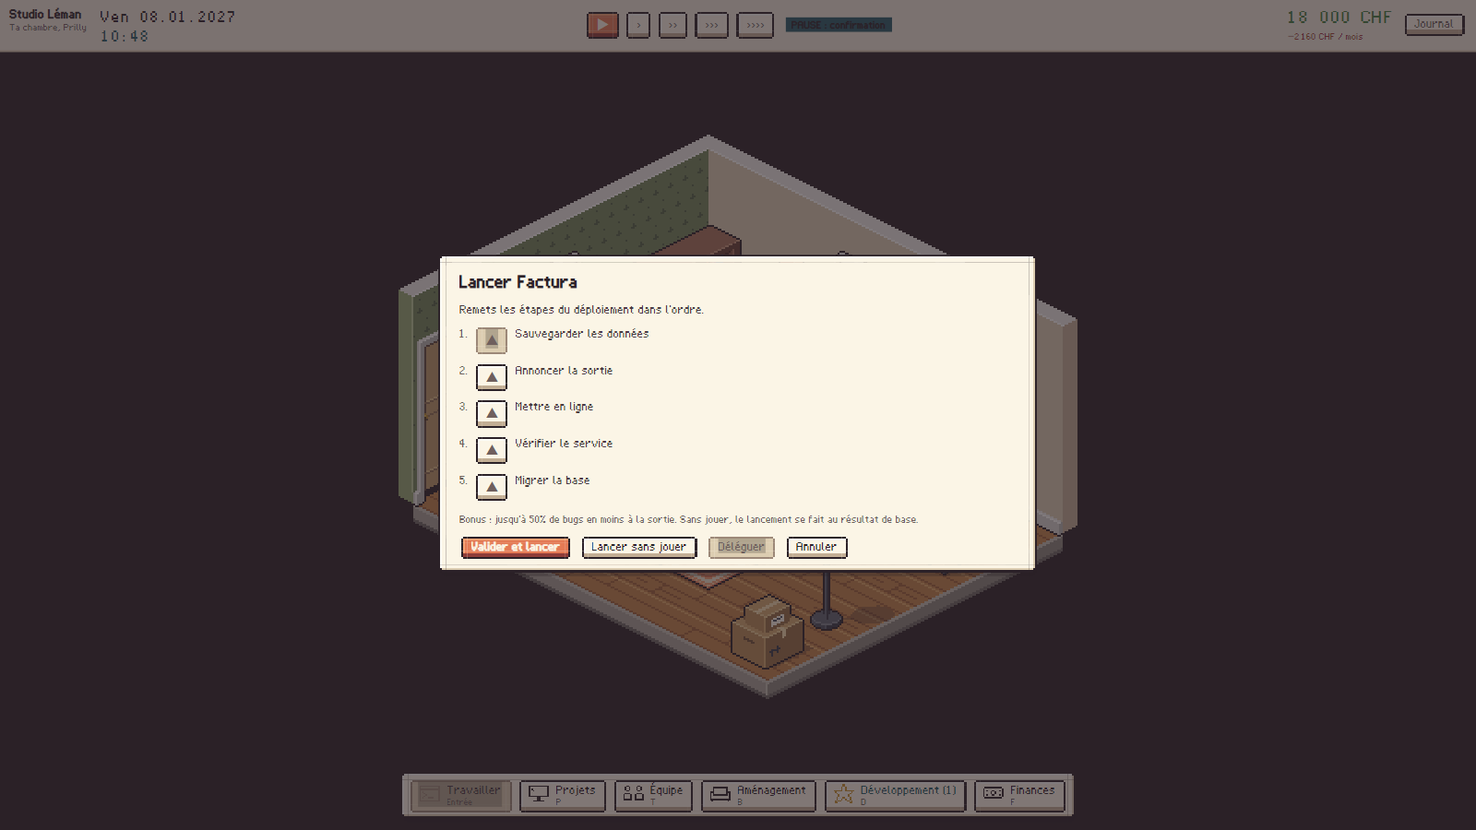
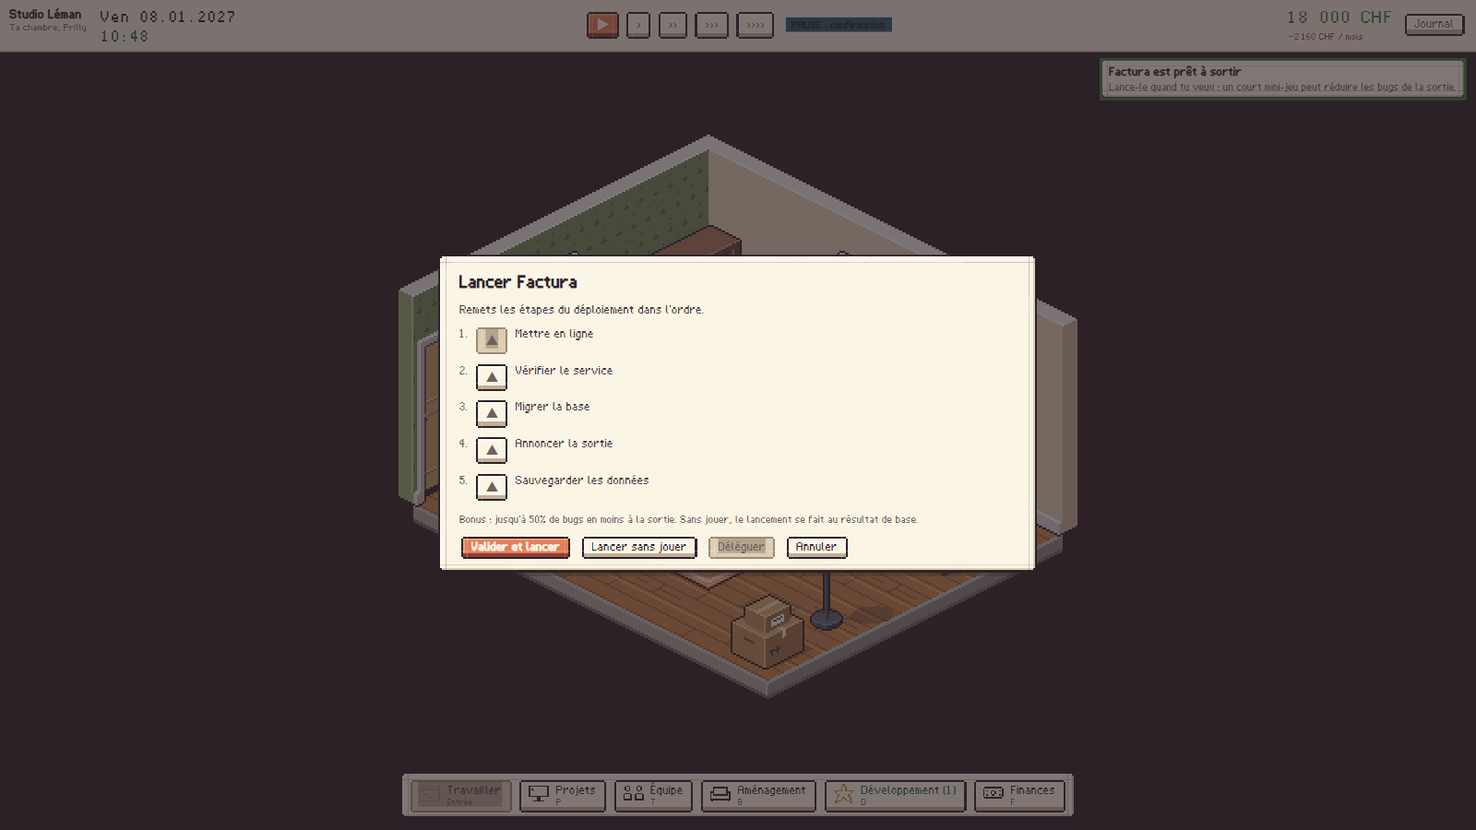
docs(V1 lot 3): confort, grosses actions, registre d'usage et captures du vrai jeu
- V1_ETAT : lot 3 fait (reste reporté : mini-jeux matériel/IA/quantique, moving_box), matrice à jour
- DESIGN_SIMULATION : confort du local (8 indicateurs plafonnés), grosses actions, nouveaux outils
- Registre : 59 validées (36 avant), 124 partielles, 403 non implémentées (tools/registry_lot3.py)
- Passation à jour (102 tests, objets muraux, ordre conseillé : lot 4)
- Captures refaites par le parcours --capture sous Windows 11

diff --git a/tools/registry_lot3.py b/tools/registry_lot3.py
@@ -1,0 +1,95 @@
+"""
+Met à jour docs/asset_usage.csv avec le mobilier de confort branché au lot 3 (voir docs/V1_ETAT.md).
+
+« validé » : un consommateur réel dans le jeu ET un test qui vérifie une conséquence (Tests/space/ComfortTest.cs).
+« partiel » : effet codé avec la même règle que des objets testés, mais sans test qui vise cet identifiant.
+
+    python tools/registry_lot3.py
+"""
+import csv
+import os
+
+ROOT = os.path.dirname(os.path.dirname(os.path.abspath(__file__)))
+REGISTRY = os.path.join(ROOT, "docs", "asset_usage.csv")
+
+CATALOG = "Core/space/Furniture.cs;Core/space/Layout.cs"
+WALL = "Core/space/Furniture.cs;Core/space/Layout.cs;Core/space/RealEstate.cs;UI/Iso/RoomRenderer.cs"
+CONSUMER = "Aménagement (achat, pose, sockets, murs), confort du local (Layout.Comfort), simulation"
+TEST = "Tests/space/ComfortTest.cs : "
+
+
+def row(indicator, state, test, files=CATALOG, unlock="dès le départ (catalogue)", consumer=CONSUMER):
+    return dict(consommateur=consumer, fichier_definition=files, deblocage=unlock,
+                indicateur_ou_interaction=indicator, etat=state, scenario_test=test)
+
+
+updates = {}
+
+validated = [
+    (["photo_abstract", "clock_wall"], "ambiance +0,5 / +0,25 ; pose au mur plein, jamais sur la porte ni une fenêtre", WALL,
+     "WallItemsHangOnPlainWallsBlindsOnWindowsNeverOnTheDoor"),
+    (["lamp_ceiling"], "ambiance +0,75 ; au plafond, aucune case au sol", CATALOG, "ACeilingLampTakesNoFloorSpace"),
+    (["locker", "toilet", "toilet_stall", "washbasin"], "confort de base (moral, 3 au plus) selon les personnes couvertes", CATALOG,
+     "StorageAndSanitariesGiveBaseComfortForThePeopleTheyCover"),
+    (["coffee_machine", "vending_drinks", "kitchen_sink", "kitchen_counter"], "énergie par pause, places limitées (15 au plus)", CATALOG,
+     "BreakServicesServeALimitedNumberOfPeople"),
+    (["sofa", "table_coffee"], "énergie par pause et moral de détente ; la table basse complète un coin assis", CATALOG,
+     "ACoffeeTableOnlyCompletesASeatingArea"),
+    (["partition_acoustic"], "production +2 % pour 4 personnes (4 % au plus)", CATALOG, "PartitionsHelpFocusUpToACapForThePeopleTheyCover"),
+    (["table_meeting_small", "chair_meeting", "notebook", "whiteboard_mobile"],
+     "coordination (personnes sans perte, 3 au plus ; petits supports 1 au plus)", CATALOG,
+     "MeetingTablesCountWithTheirChairsAndSmallNotesAreCapped"),
+    (["bookcase", "presentation_screen", "poster_schematic"], "efficacité des formations (40 % au plus)", WALL, "TrainingSupportsAreCapped"),
+    (["reception_desk"], "1 candidat de plus chaque semaine", CATALOG, "AReceptionDeskBringsOneMoreCandidateEachWeek"),
+]
+for ids, indicator, files, test in validated:
+    for i in ids:
+        updates[i] = row(indicator, "validé", TEST + test, files)
+updates["trophy_project"] = row("récompense du premier lancement (cartons), ambiance +0,5, sans revente", "validé",
+                                TEST + "TheFirstLaunchLeavesATrophyToPlace", "Core/space/Furniture.cs;Core/campaign/Campaign.Daily.cs",
+                                "jalon « Premier lancement »")
+
+partial = {
+    "plant_trailing": "ambiance +0,5 (sur un meuble)", "rug_large": "ambiance +1", "poster_project": "ambiance +0,5 (au mur)",
+    "window_blinds": "ambiance +0,25 (sur une fenêtre)", "display_case": "ambiance +1",
+    "figurine_robot": "moral du poste +0,5 (1 au plus)", "retro_message": "moral du poste +0,5 (1 au plus)",
+    "water_cooler": "pause +4, 10 personnes", "bottle": "pause +2, 1 personne", "vending_snacks": "pause +3, 15 personnes",
+    "fridge": "pause +3, 10 personnes", "microwave": "pause +3, 8 personnes (sur un plan de travail)", "snack_bowl": "pause +1,5, 3 personnes",
+    "armchair": "pause +2 pour 1 personne, détente +1",
+    "dresser": "rangement, 2 personnes", "nightstand": "rangement, 1 personne", "trash_bin": "propreté, 3 personnes",
+    "recycling_station": "propreté, 8 personnes", "coat_rack": "rangement, 4 personnes", "filing_cabinet": "rangement, 3 personnes",
+    "wardrobe_office": "rangement, 3 personnes", "shelf_metal": "rangement, 4 personnes",
+    "sideboard_low": "rangement, 2 personnes ; socket café / micro-ondes", "pedestal_drawer": "rangement, 1 personne",
+    "storage_boxes": "rangement, 1 personne (sur un meuble)", "cable_organizer": "rangement du poste, 1 personne",
+    "kitchen_wall_cabinet": "rangement, 2 personnes (au mur)",
+    "partition_low": "production +1 %, 4 personnes", "partition_glass": "production +1 %, 4 personnes",
+    "partition_glass_door": "production +1 %, 4 personnes",
+    "planning_board": "coordination +1 (au mur, deux segments)", "table_meeting_large": "coordination +2 avec 4 chaises, formations +5 %",
+    "table_collab": "coordination +1", "sticky_notes": "coordination +0,25 (au mur)", "idea_sketch": "coordination +0,25 (au mur)",
+    "paper_stack": "coordination +0,25 (sur un meuble)", "books_stack": "formations +5 % (sur un meuble)",
+}
+for i, indicator in partial.items():
+    updates[i] = row(indicator, "partiel", "même règle que les objets testés dans " + TEST.split(" :")[0] + " ; pas de test sur cet identifiant",
+                     WALL if i in ("poster_project", "window_blinds", "planning_board", "sticky_notes", "idea_sketch", "kitchen_wall_cabinet") else CATALOG)
+updates["award_plaque"] = row("récompense des 10 000 CHF par mois (cartons), ambiance +0,5 au mur", "partiel",
+                              "même code que le trophée (TheFirstLaunchLeavesATrophyToPlace) ; jalon non atteint dans les tests",
+                              "Core/space/Furniture.cs;Core/campaign/Campaign.Daily.cs", "jalon « 10 000 CHF par mois »")
+
+with open(REGISTRY, encoding="utf-8", newline="") as f:
+    reader = csv.DictReader(f)
+    columns = reader.fieldnames
+    rows = list(reader)
+known = {r["id"] for r in rows}
+missing = sorted(set(updates) - known)
+assert not missing, f"IDs absents du registre : {missing}"
+for r in rows:
+    if r["id"] in updates:
+        r.update(updates[r["id"]])
+with open(REGISTRY, "w", encoding="utf-8", newline="") as f:
+    writer = csv.DictWriter(f, fieldnames=columns)
+    writer.writeheader()
+    writer.writerows(rows)
+states = {}
+for r in rows:
+    states[r["etat"]] = states.get(r["etat"], 0) + 1
+print(states)

diff --git a/docs/V1_ETAT.md b/docs/V1_ETAT.md
@@ -27,23 +27,23 @@ Ce fichier sert à reprendre le travail : il dit ce qui existe vraiment dans le 
 | Design → développement → tests automatiques par les employés | fait | `Core/campaign/Campaign.Time.cs` (`PickWork`, `DoWork`) | Étendre aux tâches de recherche, fabrication, IA |
 | Le fondateur ne produit plus en passif | **fait (lot 2)** | `Campaign.Time.cs` (`FounderTime`) : support seulement, hors terminal | — |
 | Terminal de saisie mot par mot | **fait (lot 2)** | `Core/campaign/Campaign.Terminal.cs`, `UI/Hud/TerminalView.cs`, `UI/Screens/GameScreen.cs` | Améliorations du terminal dans l'arbre (lot 3), saisie simplifiée d'accessibilité |
-| Mini-jeux de grosses actions et délégation | absent | — | Lot 3 |
+| Mini-jeux de grosses actions et délégation | **fait (lot 3)** pour le logiciel | `Core/campaign/Campaign.Launch.cs`, `UI/Hud/LaunchView.cs` | Mini-jeux matériel, IA, quantique (lots 5 et 6) |
 | Avis causaux avec lien vers le levier | partiel | `Core/products/Reviews.cs` | Causes matériel (rupture, défauts, délai), cloud, IA |
 | Prix, marketing, souhaits, entretien, hébergement plafonné | fait | `Campaign.Products.cs` (`SetPrice`, `SetMarketing`, `AdjustHosting`), `Core/products/Market.cs` | Relier à l'infrastructure interne |
 | Équipe : recrutement, horaires, congés, formation, augmentation | fait | `Core/campaign/Campaign.Team.cs`, `Core/team/` | Métiers nouveaux (opérateur, chercheur), apparences du pack |
-| Arbre de développement sur vrais jalons | partiel | `Core/progress/DevTree.cs` (17 nœuds, 5 branches), `Campaign.Daily.cs` (`AwardUsers`, `CheckMilestones`) | Sous-branches, Outils du boss, matériel, industrie, IA, cloud, recherche |
+| Arbre de développement sur vrais jalons | partiel | `Core/progress/DevTree.cs` (25 nœuds, 6 branches dont « Outils du boss »), `Campaign.Daily.cs` (`AwardUsers`, `CheckMilestones`) | Sous-branches matériel, industrie, IA, cloud, recherche |
 | Finances et faillite progressive | fait | `Core/finance/Ledger.cs`, `Core/finance/Solvency.cs`, `Campaign.Daily.cs` (`UpdateSolvency`) | Charges énergie, matières, calcul externe ; détail par site |
 | Sauvegardes nommées, automatiques, atomiques, migration | **format 3 (lot 2)** | `SaveStore.cs` (format 3), `Migration.cs` (1 → 2), `MigrationV2.cs` (2 → 3), copie `.v<format>.json` | Sites multiples et nouvelles activités (format 4, lot 4) |
-| Mobilier utile et plafonné | partiel | `Core/space/Furniture.cs` (38 IDs du pack jouables), `Core/space/Layout.cs` (ambiance plafonnée, objets personnels, écrans, lit) | Le reste du mobilier et de la décoration, indicateurs regroupés par site |
+| Mobilier utile et plafonné | **fait (lot 3)** pour le bureau | `Core/space/Furniture.cs` (89 IDs du pack jouables), `Core/space/Layout.cs` (`Comfort` : 8 indicateurs plafonnés avec couverture), synthèse dans `UI/Hud/Panels/BuildPanel.cs` | `moving_box` ; mobilier des ateliers, labos et salles techniques (lots 4 à 6) ; synthèse multisite (lot 4) |
 | Plusieurs sites visitables, vue commune | absent | Un seul `Premises` dans `Campaign`, sur un plan du pack (chambre, petit bureau, bureau moyen, open space) | Lot 4 |
-| Rendu isométrique, ancres, tri topologique, ombres, couches | **fait (lot 2)** | `UI/Iso/PackImages.cs`, `UI/Iso/RoomRenderer.cs` (portage du compositeur), `UI/Scene/SceneCanvas.cs` | Objets muraux posés par le joueur, estompage des objets hauts |
+| Rendu isométrique, ancres, tri topologique, ombres, couches | **fait (lots 2 et 3)** | `UI/Iso/PackImages.cs`, `UI/Iso/RoomRenderer.cs` (portage du compositeur ; objets muraux et plafond depuis le local réel), `UI/Scene/SceneCanvas.cs` | Estompage des objets hauts |
 | HUD Papier, polices du pack, curseurs | partiel (lot 2) | `UI/Pixel/PixelPanel.cs` (9-slice du pack), `UI/Pixel/Palette.cs`, `UI/App.axaml`, `UI/Pixel/Icons.cs` | Curseurs, onglets, cartes, listes, cases à cocher du pack ; police à régler (taille non multiple de 12) |
 | Personnages en couches, coiffures, peaux | **fait (lot 2)** | `Core/team/Person.cs` (`Appearance`), `UI/Iso/Portraits.cs`, choix à la nouvelle campagne | Recoloration des tenues |
 | Matériel, usine, stocks, approvisionnement, canaux de vente | absent | — | Lot 5 |
 | Infrastructure interne, racks, énergie, refroidissement, offres cloud | absent | — | Lot 4 |
 | IA simulée | absent | — | Lot 6 |
 | Recherche, laboratoires, studio, XR, quantique | absent | — | Lots 5 et 6 |
-| Bots d'équilibrage et rapport | partiel | `Core/bots/`, `Tests/balance/` | Stratégies avec terminal et délégation, nouvelles branches |
+| Bots d'équilibrage et rapport | partiel | `Core/bots/`, `Tests/balance/` (terminal, délégation, mots tapés mesurés) | Nouvelles branches (lots 4 à 6) |
 | Captures du vrai jeu | fait | `UI/Capture.cs` (`--capture`) | Refaire après chaque lot visuel |
 
 Le pack fournit un compositeur C# de référence (`assets/StartupRushOriginalAssets/tools/csharp/StartupRushReference/Program.cs`, 612 lignes, sans dépendance). Il n'a pas encore été lu en détail ni exécuté ici ; c'est la base prévue pour le rendu isométrique du lot 2.
@@ -54,7 +54,7 @@ Le pack fournit un compositeur C# de référence (`assets/StartupRushOriginalAss
 |---|---|---|
 | 1 | Audit, protection des sauvegardes, registre de couverture | **fait** : pack et spécification versionnés, registre de 586 lignes (570 IDs, 10 plans, 6 modules), contrôle statique, cette matrice. Les sauvegardes actuelles sont déjà atomiques avec copie `.bak` ; la migration vers le format 3 arrive avec le lot 2. |
 | 2 | Chambre avec les nouveaux assets, HUD, création de projet, terminal du boss, premier lancement, avis, sauvegarde et reprise | **fait**, voir ci-dessous |
-| 3 | Employés automatiques, délégation, mini-jeux sans spam, arbre et confort utiles | **en partie**, voir « Lot 3 » |
+| 3 | Employés automatiques, délégation, mini-jeux sans spam, arbre et confort utiles | **fait**, voir « Lot 3 » (mini-jeux matériel, IA et quantique avec les lots 5 et 6) |
 | 4 | Multisite, réseau, racks, hébergement interne et externe, offres cloud | à faire |
 | 5 | Recherche, prototypage, gamme matérielle, flux d'usine, stocks, approvisionnement, canaux de vente | à faire |
 | 6 | IA simulées, studio, XR, calcul avancé et quantique | à faire |
@@ -111,14 +111,33 @@ Fait (testé par `Tests/campaign/LaunchAndBossTest.cs`, vu sur les captures `07b
 - Délégation : un employé présent lance à ta place (sans bonus, ou la moitié du meilleur avec les procédures) ; mode
   « déléguer par défaut » (`Campaign.DelegateLaunches`) qui sort chaque matin les projets prêts.
 
-Reste à faire :
-- Mini-jeux matériel, IA et quantique (familles prévues par la spécification, avec les lots 5 et 6).
-- Préférence « me proposer les grosses actions » et regroupement des sollicitations.
-- Supervision à distance et automatisation avancée dans les Outils du boss ; saisie simplifiée d'accessibilité.
-- Confort : les meubles de confort restants du pack (fauteuils, distributeurs, sanitaires, modules) et la synthèse par site.
-- Les bots n'utilisent pas encore ces nœuds ni la délégation : à ajouter aux stratégies, puis refaire le bilan.
+Fait ensuite (testé par `Tests/space/ComfortTest.cs` et `Tests/campaign/LaunchAndBossTest.cs`, vu sur les captures 07, 15, 18) :
+- **Grosses actions** : « Me les proposer » (par défaut), « Ne pas me déranger » ou « Déléguer par défaut », dans l'aperçu d'un
+  projet. Plusieurs projets prêts font **une seule** annonce (clé `ready`), mise à jour au lieu de s'empiler, qui ouvre le
+  lancement ; rien n'est proposé quand un employé lancera demain matin ; une proposition attend la fin de la saisie au terminal.
+- **Outils du boss** : Supervision à distance (terminal sans poste complet ou pendant une formation, rendement ×0,85) et
+  Automatisation avancée (chaque lundi, l'équipe met en file la petite amélioration demandée par les avis d'un projet en ligne ;
+  il faut un employé ; réglable « Préparées par l'équipe / Je les choisis »).
+- **Saisie simplifiée** (Réglages, accessibilité, désactivée par défaut) : le mot s'écrit tout seul à 3 lettres/s, Entrée le
+  valide, rendement de la frappe lente (×0,85) quel que soit le rythme.
+- **Confort** : `Layout.Comfort` regroupe le mobilier en 8 indicateurs plafonnés : ambiance (6), détente (4), confort de base
+  (3 : moitié rangement, moitié sanitaires, selon les personnes couvertes), pause (3 à 15 d'énergie, chacun prend la meilleure
+  boisson ou collation et la meilleure place assise encore libres), concentration (+4 % au plus, cloisons), coordination
+  (+3 personnes au plus ; tables de réunion avec leurs chaises ; petits supports 1 au plus), formation (+40 % au plus), accueil
+  (+1 candidat par semaine). Un manque prive seulement d'un bonus. Gardé en cache tant que le local et l'effectif ne changent pas.
+- **Objets muraux** posés par le joueur sur les murs du fond (plein ; stores sur une fenêtre ; jamais sur la porte ; planning
+  sur deux segments) ; le décor mural des plans devient de vrais objets livrés avec le local, ajoutés une fois aux sauvegardes
+  plus anciennes (`Campaign.ImportWallItems`, marqueur `WallItemsImported`, toujours le format 3). Luminaire au plafond.
+- **Récompenses** : trophée au premier lancement, plaque à 10 000 CHF par mois, livrés dans les cartons, sans revente.
+- **Bots** : stratégie « delegation » (le fondateur arrête de taper à la première embauche) : 0 faillite sur 5, 6 166 mots
+  tapés contre 11 503 pour « plusieurs_petits » ; colonne « Mots tapés » dans `BALANCE_REPORT.md`.
+
+Reste (reporté aux lots suivants, avec leur contexte) :
+- Mini-jeux matériel (calibration), IA (échantillons) et quantique (signaux) : lots 5 et 6.
+- `moving_box` : montrer les cartons dans la scène et ouvrir leur contenu (décor sans fonction pour l'instant).
+- Mobilier des ateliers, laboratoires et salles techniques, synthèse multisite : lots 4 à 6.
 
 ## Couverture du registre
 
-586 lignes : **36 validées**, 96 partielles (branchées sans test d'effet, ou vérifiées seulement en capture), 454 non
-implémentées (dont les décors des plans, affichés mais sans fonction pour l'instant). Une ligne passe à « validé » seulement quand elle nomme un consommateur réel dans le jeu, son fichier de définition et un scénario de test qui vérifie une conséquence (avant/après pour un objet de gameplay, action et état pour un contrôle d'interface). Le contrôle `AssetRegistryTest` est statique : il vérifie les IDs et les fichiers cités, pas les effets.
+586 lignes : **59 validées**, 124 partielles (branchées sans test d'effet, ou vérifiées seulement en capture), 403 non
+implémentées (dont les décors des plans, affichés mais sans fonction pour l'instant). Lot 3 : `tools/registry_lot3.py`. Une ligne passe à « validé » seulement quand elle nomme un consommateur réel dans le jeu, son fichier de définition et un scénario de test qui vérifie une conséquence (avant/après pour un objet de gameplay, action et état pour un contrôle d'interface). Le contrôle `AssetRegistryTest` est statique : il vérifie les IDs et les fichiers cités, pas les effets.

diff --git a/docs/PASSATION_IA.md b/docs/PASSATION_IA.md
@@ -41,7 +41,7 @@
 
 ```
 dotnet build StartupRush.sln
-dotnet test Tests/Tests.csproj                                   # 81 tests à la fin du lot 2
+dotnet test Tests/Tests.csproj                                   # 102 tests à la fin du lot 3
 dotnet test Tests/Tests.csproj --filter Name=WriteBalanceReport  # réécrit BALANCE_REPORT.md (bots, ~1 min)
 UI.exe --capture <dossier>                                       # parcours scripté dans le vrai jeu, 28 captures + rapport
 ```
@@ -99,7 +99,8 @@ Pièges connus :
 - `tools/build_asset_registry.py` ajoute les nouveaux IDs sans écraser ; `tools/registry_lot2.py` montre comment marquer
   ce qui a été branché. `Tests/space/AssetRegistryTest.cs` vérifie les IDs et que chaque ligne validée cite des fichiers
   existants (contrôle **statique**, à présenter comme tel).
-- À la fin du lot 2 : 36 validées, 96 partielles, 454 non implémentées.
+- À la fin du lot 2 : 36 validées, 96 partielles, 454 non implémentées. À la fin du lot 3 : 59 validées, 124 partielles,
+  403 non implémentées (`tools/registry_lot3.py`).
 
 ## 7. Où on en est
 
@@ -107,12 +108,20 @@ Voir le tableau des lots de `docs/V1_ETAT.md` et la section « Lot 3 » ci-desso
 
 ## 8. Lot 3 et la suite
 
-- Lot 3 en partie fait : voir « Lot 3 : ce qui a été fait, ce qui reste » dans `docs/V1_ETAT.md`. Fichiers clés :
-  `Core/campaign/Campaign.Launch.cs`, `UI/Hud/LaunchView.cs`, branche « Outils du boss » de `Core/progress/DevTree.cs`,
-  tests `Tests/campaign/LaunchAndBossTest.cs`. 86 tests passent à cette passation.
-- Ordre conseillé ensuite : finir le lot 3 (préférence des grosses actions, bots qui délèguent, confort du pack), puis lot 4
-  (plusieurs sites : `Campaign.Premises` devient une liste de sites, format de sauvegarde 4 + migration), lots 5 à 7.
-- Points à vérifier signalés au lot 2 : personnages assis moins nombreux que les postes sur la capture de la campagne
-  avancée ; police pixel floue à certaines tailles ; « marketing excessif » trop peu puni (2/5 faillites).
+- Lot 3 fait : voir « Lot 3 » dans `docs/V1_ETAT.md`. Fichiers clés : `Core/campaign/Campaign.Launch.cs` (lancement,
+  délégation, annonce regroupée `ReadyKey`, `AutoImproveProjects`), `UI/Hud/LaunchView.cs`, branche « Outils du boss » de
+  `Core/progress/DevTree.cs`, `Core/space/Layout.cs` (`Comfort`, `CanHang`), `Core/space/Furniture.cs` (89 meubles jouables),
+  `Campaign.SiteComfort()` (cache, à lire au lieu de recalculer), tests `Tests/space/ComfortTest.cs` et
+  `Tests/campaign/LaunchAndBossTest.cs`. 102 tests passent à cette passation.
+- Objets muraux : `PlacedItem.Wall` (« left »/« right ») ; `Premises.Floor` les exclut, `Premises.WallItems` les liste ; la case
+  (0, v) vise le mur de gauche, (u, 0) celui de droite, le coin se départage par l'orientation. Le décor mural des plans vient
+  maintenant du local (plus du JSON du plan) ; les anciennes sauvegardes le reçoivent une fois au chargement.
+- Ordre conseillé ensuite : lot 4 (plusieurs sites : `Campaign.Premises` devient une liste de sites, `SiteComfort` par site,
+  format de sauvegarde 4 + migration ; salle serveur, racks, réseau, hébergement interne et offres cloud), puis lots 5 à 7.
+  Reste du lot 3 reporté : mini-jeux matériel/IA/quantique (lots 5-6), fonction de `moving_box`.
+- Points à vérifier signalés au lot 2 (toujours ouverts) : personnages assis moins nombreux que les postes sur la capture de
+  la campagne avancée ; police pixel floue à certaines tailles ; « marketing excessif » trop peu puni (2/5 faillites).
+- Piège d'outillage : certains heredocs bash avec des apostrophes françaises échouent (« unexpected EOF ») ; écrire les scripts
+  de modification dans un fichier .py du dossier temporaire (remplacements exacts, une occurrence) plutôt qu'en ligne.
 - Avant chaque commit : `dotnet test Tests/Tests.csproj`, le parcours `--capture` pour tout changement visible, mise à jour
   de `docs/V1_ETAT.md`, du registre si des assets gagnent une fonction, et de cette passation.

diff --git a/DESIGN_SIMULATION.md b/DESIGN_SIMULATION.md
@@ -81,7 +81,36 @@ fait au résultat de base. Les mises à jour ne demandent jamais de mini-jeu.
 Branche « Outils du boss » de l'arbre ⚙ : Raccourcis clavier (1 pt, +15 % par mot), Clavier confortable (1 pt, −40 %
 d'énergie par mot), Tests assistés (2 pts, mots de tests +30 %), Macros (2 pts, sessions de 32 mots), Délégation des
 lancements (2 pts : un employé présent lance à ta place ; mode « déléguer par défaut »), Procédures de publication (2 pts :
-un lancement délégué obtient la moitié du meilleur bonus).
+un lancement délégué obtient la moitié du meilleur bonus), Supervision à distance (2 pts : le terminal s'ouvre sans poste
+complet ou pendant une formation, au rendement d'un vieux portable ×0,85), Automatisation avancée (3 pts : chaque lundi,
+l'équipe met en file la petite amélioration que demandent les avis d'un projet en ligne ; il faut au moins un employé).
+
+✅ Les grosses actions ne s'imposent pas : un projet prêt est **proposé** par une seule annonce regroupée (« 2 projets prêts à
+sortir »), qui ouvre le lancement ; « Ne pas me déranger » la laisse au journal ; rien n'est proposé quand un employé lancera
+le projet le lendemain ; aucune proposition n'interrompt la saisie au terminal.
+
+✅ Saisie simplifiée (accessibilité, désactivée par défaut) : le mot s'écrit tout seul (⚙ 3 lettres par seconde), Entrée le
+valide ; chaque mot rapporte comme une frappe lente (×0,85), quel que soit le rythme.
+
+## 4 bis. Confort du local
+
+✅ Chaque meuble sert, sans corvée : il agit sur **un** indicateur, plafonné, et souvent pour un nombre de personnes donné.
+Rien n'est obligatoire : un manque prive seulement d'un bonus. La synthèse est dans Aménagement (« Confort du local »).
+
+| Indicateur | Objets | Effet ⚙ (`Core/space/Layout.cs`) |
+|---|---|---|
+| Ambiance | plantes, lampes, luminaire, tapis, affiches, photo, horloge, stores, présentoir, trophées | moral commun, 6 au plus |
+| Détente | canapé (+2), fauteuil (+1) | moral commun, 4 au plus |
+| Confort de base | rangements et propreté (chacun pour 1 à 8 personnes) ; WC pour 10, lavabo, cabine | moral commun, 3 au plus : 1,5 × part de l'équipe rangée + 1,5 × sanitaires (WC 70 %, +20 % lavabo, +10 % cabine ; ta chambre compte comme équipée) |
+| Pause | café (+9, 8 pers.), distributeurs (+6 / +3, 15 pers.), fontaine (+4, 10), frigo, micro-ondes, bol de snacks, bouteille ; canapé (+5, 3 pers.), fauteuil (+2, 1) ; évier et table basse complètent (+1) | énergie par pause de 3 à 15 : chacun prend la meilleure boisson ou collation et la meilleure place encore libres |
+| Concentration | cloisons acoustiques (+2 %), basses et vitrées (+1 %), 4 personnes chacune | production, 4 % au plus |
+| Coordination | tableau blanc, planning (+1), petite table de réunion avec 2 chaises (+1), grande avec 4 (+2), table collective (+1), écran de présentation (+0,5), notes, croquis, carnets, papiers (+0,25, 1 au plus) | personnes de plus par équipe sans perte, 3 au plus |
+| Formation | bibliothèques (+15 %, 2 utiles), livres, schéma (+5 %), écran de présentation (+10 %), tables de réunion (+5 %) | efficacité des formations, 40 % au plus |
+| Accueil | banque d'accueil | 1 candidat de plus chaque semaine |
+
+Les objets muraux se posent sur les murs du fond (un mur plein ; les stores sur une fenêtre ; jamais sur la porte), le
+luminaire au plafond ; ni l'un ni l'autre ne prend de case au sol. Le trophée (premier lancement) et la plaque (10 000 CHF par
+mois) arrivent dans les cartons et ne se revendent pas.
 
 ## 5. Automatismes
 
